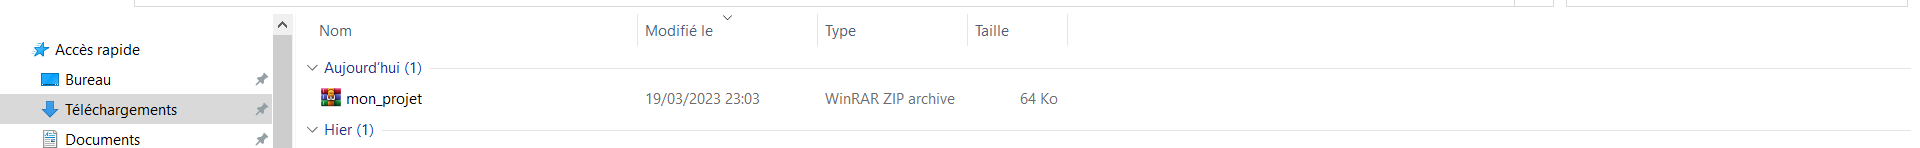
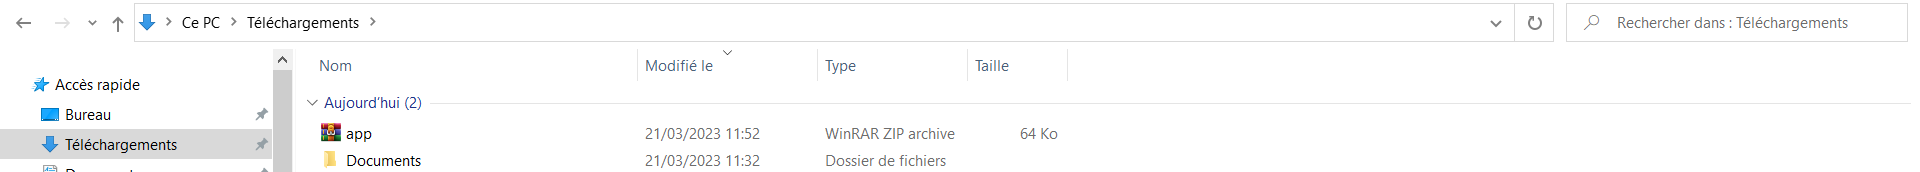
Doc V11

diff --git a/README.md b/README.md
@@ -26,16 +26,18 @@
    - *au niveau de **Project Metadata**, remplissez les champs selon vos choix en respectant la manière nous l'avions fait sur la capture tout en laissant le packaging en **jar** ;*
    - *pour les dépendances, ajouter les comme il est fait sur la capture.*
 
+   *NB: N'oubliez pas la valeur du **Package name**. Retenez-le en tête. Dans notre cas ici c'est : **com.example.app**. Nous aurons besoin de ça lorsqu'on essayera de générer le CRUD avec l'outil **spring-crud-generator***
+
 *2. Ensuite, une fois que tout est bon, cliquez sur **GENERATE** pour générer votre projet spring*
     ![alt](https://github.com/MaFlore/spring-crud-generator/blob/main/images_docs/generate.spring.png)
     
 *3. Pour vous assurer que votre projet a été bien généré, allez dans votre **explorateur de fichier** et cliquez sur **Téléchargements** si votre machine/PC est en français, dans le cas contraire, cliquez sur **Downloads***
     ![alt](https://github.com/MaFlore/spring-crud-generator/blob/main/images_docs/telechargement.png)
-    *Vu que le nom de notre projet est : **mon_projet** d'après la capture, c'est pour cela le dossier zippé ou le projet généré depuis le site se nomme : **mon_projet***
+    *Vu que le nom de notre projet est : **app** d'après la capture, c'est pour cela le dossier zippé ou le projet généré depuis le site se nomme : **app***
 
 *4. Maintenant dézippons notre projet généré et mettons-le à un endroit dans votre explorateur où vous pouvez le retrouver plutard.*
     *Dans mon cas ici je vais le mettre sur mon disque C:*
-    ![alt](https://github.com/MaFlore/spring-crud-generator/blob/main/images_docs/mon_projet.disque.c.png)
+    ![alt](https://github.com/MaFlore/spring-crud-generator/blob/main/images_docs/app.disque.c.png)
 
 *5. Téléchargez ensuite **l'outil de génération de CRUD en suivant ce lien : [https://github.com/MaFlore/download/spring-crud-generator.jar](https://github.com/MaFlore/spring-crud-generator/raw/main/spring-crud-generator.jar)**. Cet outil téléchargé vous permettra de générer le CRUD d'une entité en **Spring** à partir du **CMD (ligne de commande/Console)**.*
 
@@ -45,7 +47,7 @@
 
 *7. À présent, nous allons générer le **CRUD d'une entité au choix dans le projet généré** depuis le site officielle de spring nommé : **mon_projet**.*
     *Pour commencer lançons notre **CMD** et entrons la commande : **java -jar spring-crud-generator.jar**.*
-    *Une fois cette commande validée, nous aurons dans notre CMD un message de salutation, ensuite on nous demande de copier le chemin vers le projet dans lequel on veut générer le CRUD. ![alt](https://github.com/MaFlore/spring-crud-generator/blob/main/images_docs/img1.png) Ici nous allons dans notre explorateur cherché l'emplacement où on a mis le projet généré depuis le site officiel de spring*
+    *Une fois cette commande validée, nous aurons dans notre CMD un message de salutation, ensuite on nous demande de copier le chemin vers le projet dans lequel on veut générer le CRUD. ![alt](https://github.com/MaFlore/spring-crud-generator/blob/main/images_docs/img1.png)Ici, nous allons dans notre explorateur cherché l'emplacement où on a mis le projet généré depuis le site officiel de spring*
     *Dans notre cas ici, c'est sur notre disque C:*
     ![alt](https://github.com/MaFlore/spring-crud-generator/blob/main/images_docs/mon_projet.disque.c.png)
     *Ainsi, on copie le chemin vers l'emplacement de notre projet généré et on vient coller ça dans notre CMD.*
